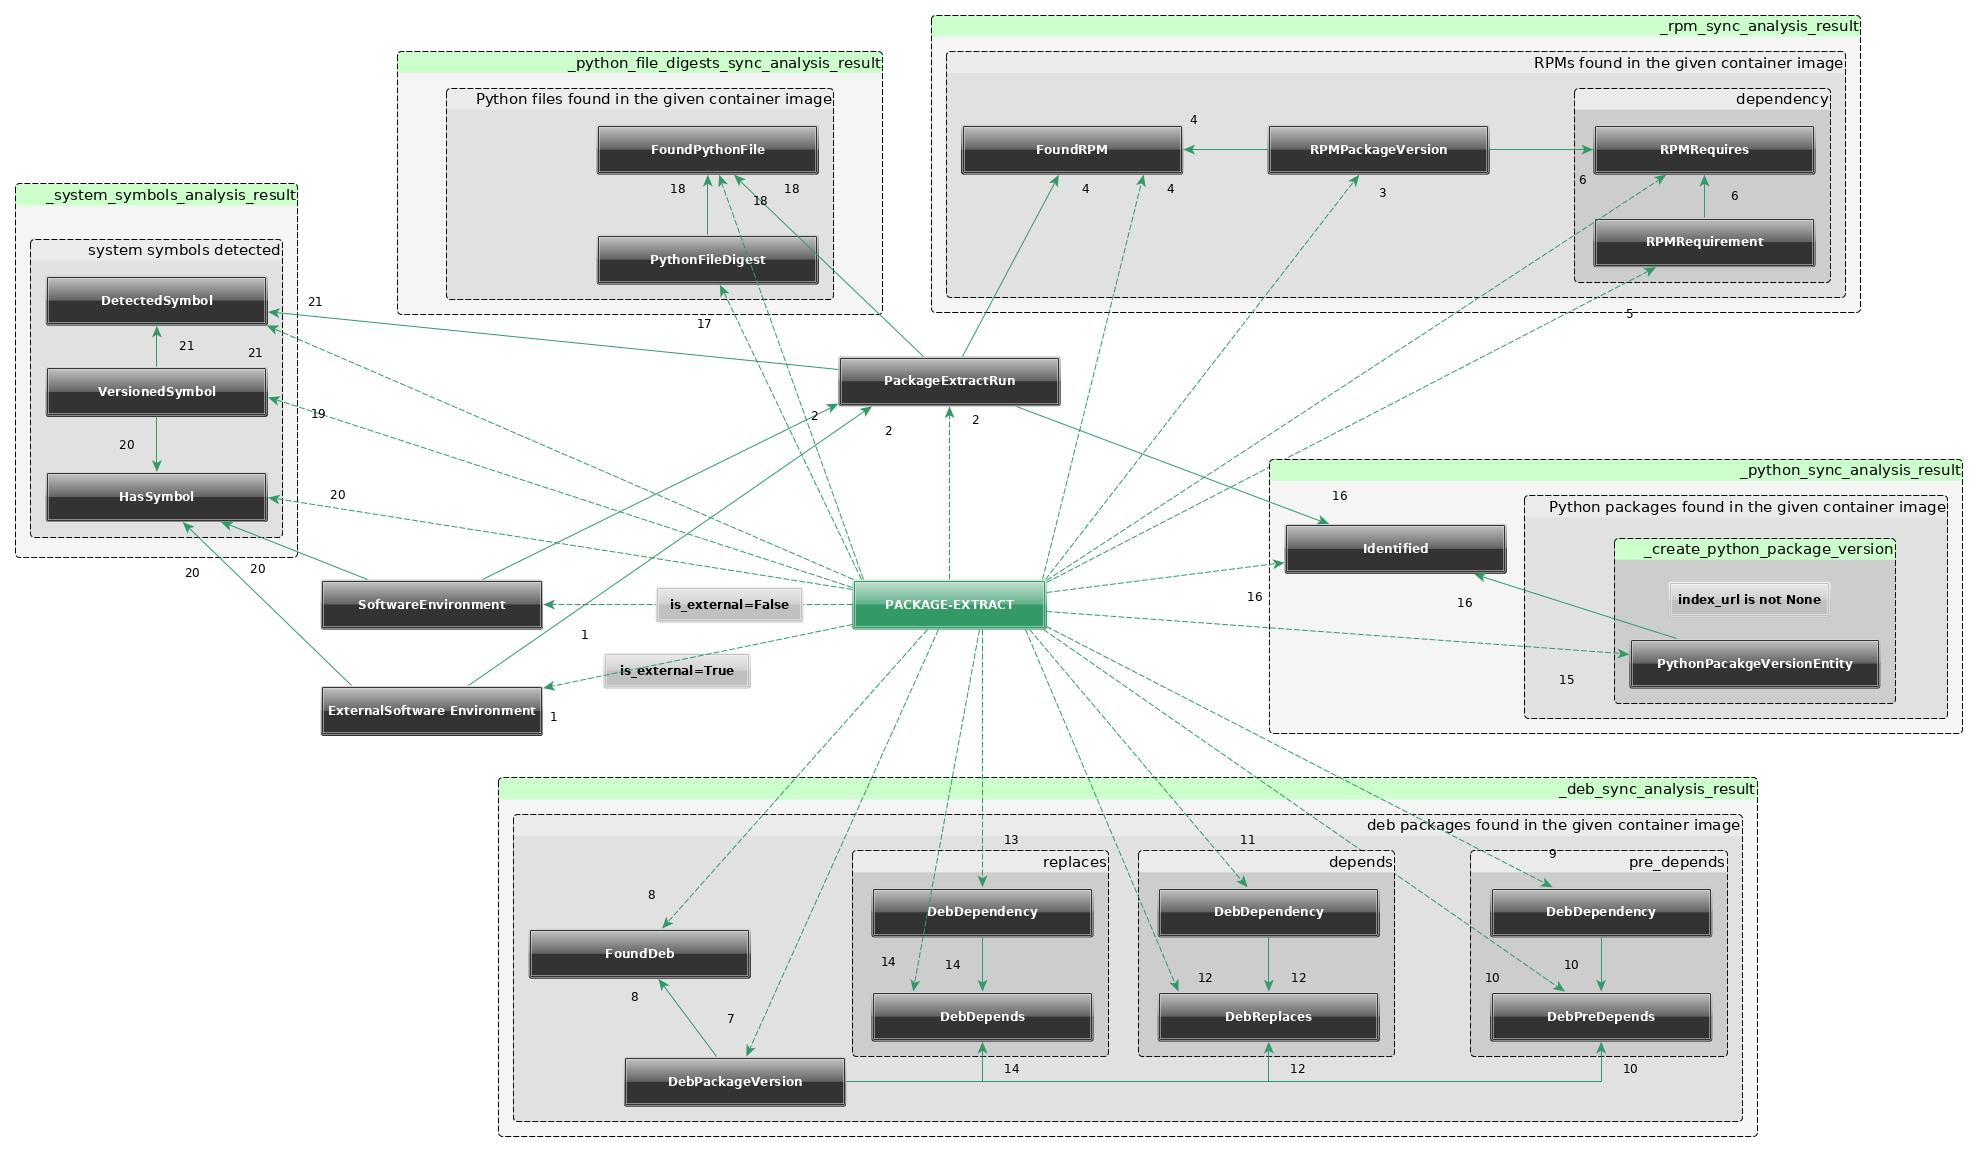
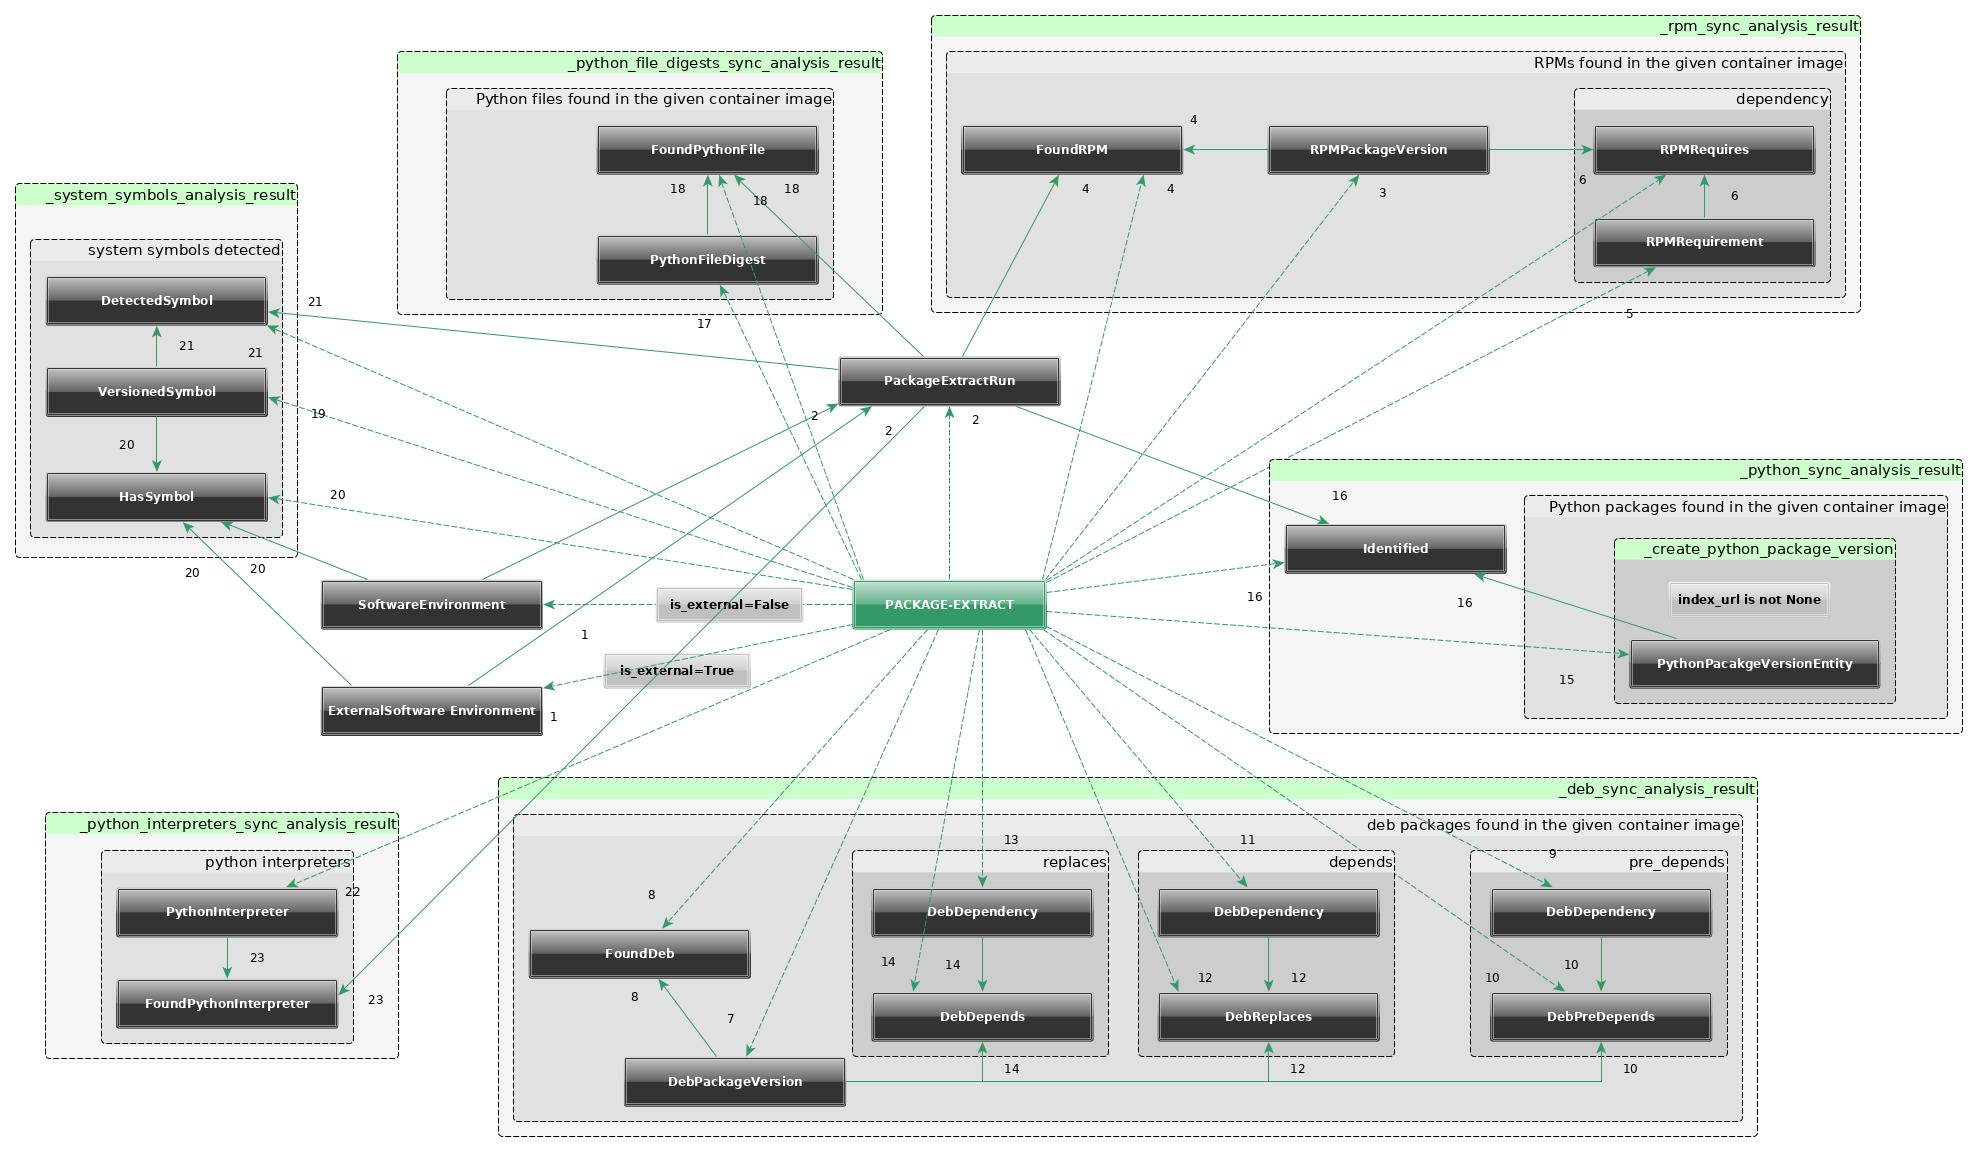
Add update sync schema for PackageExtract

Changed region(s): [[0.0, 0.6875, 0.2159, 0.9062]]

diff --git a/thoth/storages/graph/postgres.py b/thoth/storages/graph/postgres.py
@@ -4133,7 +4133,7 @@ class GraphDatabase(SQLBase):
         self,
         package_extract_run: PackageExtractRun,
         document: dict,
-        software_environment: SoftwareEnvironment or ExternalSoftwareEnvironment,
+        software_environment: Union[SoftwareEnvironment, ExternalSoftwareEnvironment],
         is_external: bool = False
     ) -> None:
         """Sync system symbols detected in a package-extract run into the database."""
@@ -4167,7 +4167,7 @@ class GraphDatabase(SQLBase):
         self,
         package_extract_run: PackageExtractRun,
         document: dict,
-        software_environment: SoftwareEnvironment or ExternalSoftwareEnvironment,
+        software_environment: Union[SoftwareEnvironment, ExternalSoftwareEnvironment],
     ) -> None:
         """Sync results of Python packages found in the given container image."""
         for python_package_info in document["result"]["mercator"] or []:
@@ -4332,7 +4332,11 @@ class GraphDatabase(SQLBase):
                 self._deb_sync_analysis_result(package_extract_run, document)
                 self._python_sync_analysis_result(package_extract_run, document, software_environment)
                 self._python_file_digests_sync_analysis_result(package_extract_run, document)
-                self._system_symbols_analysis_result(package_extract_run, document, software_environment, is_external=is_external)
+                self._system_symbols_analysis_result(
+                    package_extract_run, document,
+                    software_environment,
+                    is_external=is_external
+                )
                 self._python_interpreters_sync_analysis_result(package_extract_run, document, software_environment)
         except Exception:
             self._session.rollback()
